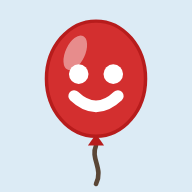
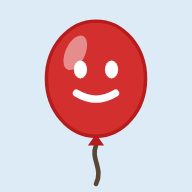
Give the balloon the Slight smile face
Jon picked the Slight smile from the face workshop (oval eyes, small smile,
no catch-light). It replaces face-calm in art/you/face.svg, so every balloon
in the app wears it, and face-blink is redrawn to match. Icons regenerated
with npm run icons.

Claude-Session: https://claude.ai/code/session_01LePA911YM948B3tnZFiVBy

Changed region(s): [[0.3438, 0.3125, 0.6562, 0.5938]]

diff --git a/src/crew/art.generated.ts b/src/crew/art.generated.ts
@@ -8,8 +8,8 @@ export const art = {
             12
         ],
         "layers": {
-            "calm": "<g class=\"face-calm\"><g class=\"eyes\"><circle cx=\"-3\" cy=\"-0.8\" r=\"1.7\" fill=\"#ffffff\"/><circle cx=\"3\" cy=\"-0.8\" r=\"1.7\" fill=\"#ffffff\"/></g><path d=\"M-3.8 3 q3.8 3.6 7.6 0\" fill=\"none\" stroke=\"#ffffff\" stroke-width=\"2\" stroke-linecap=\"round\" class=\"mouth\"/></g>",
-            "blink": "<g class=\"face-blink\"><g fill=\"none\" stroke=\"#ffffff\" stroke-width=\"1.2\" stroke-linecap=\"round\" class=\"eyes-shut\"><path d=\"M-4.6 -0.8 q1.6 1.2 3.2 0\"/><path d=\"M1.4 -0.8 q1.6 1.2 3.2 0\"/></g><path d=\"M-3.8 3 q3.8 3.6 7.6 0\" fill=\"none\" stroke=\"#ffffff\" stroke-width=\"2\" stroke-linecap=\"round\"/></g>"
+            "calm": "<g class=\"face-calm\"><g class=\"eyes\"><ellipse cx=\"-2.7\" cy=\"-1.6\" rx=\"1.15\" ry=\"1.55\" fill=\"#ffffff\"/><ellipse cx=\"2.7\" cy=\"-1.6\" rx=\"1.15\" ry=\"1.55\" fill=\"#ffffff\"/></g><path d=\"M-3.4 2.5 Q0 4.6 3.4 2.5\" fill=\"none\" stroke=\"#ffffff\" stroke-width=\"1.25\" stroke-linecap=\"round\" class=\"mouth\"/></g>",
+            "blink": "<g class=\"face-blink\"><g fill=\"none\" stroke=\"#ffffff\" stroke-width=\"1.1\" stroke-linecap=\"round\" class=\"eyes-shut\"><path d=\"M-3.8 -1.4 q1.1 0.9 2.2 0\"/><path d=\"M1.6 -1.4 q1.1 0.9 2.2 0\"/></g><path d=\"M-3.4 2.5 Q0 4.6 3.4 2.5\" fill=\"none\" stroke=\"#ffffff\" stroke-width=\"1.25\" stroke-linecap=\"round\"/></g>"
         }
     },
     "balloon": {
